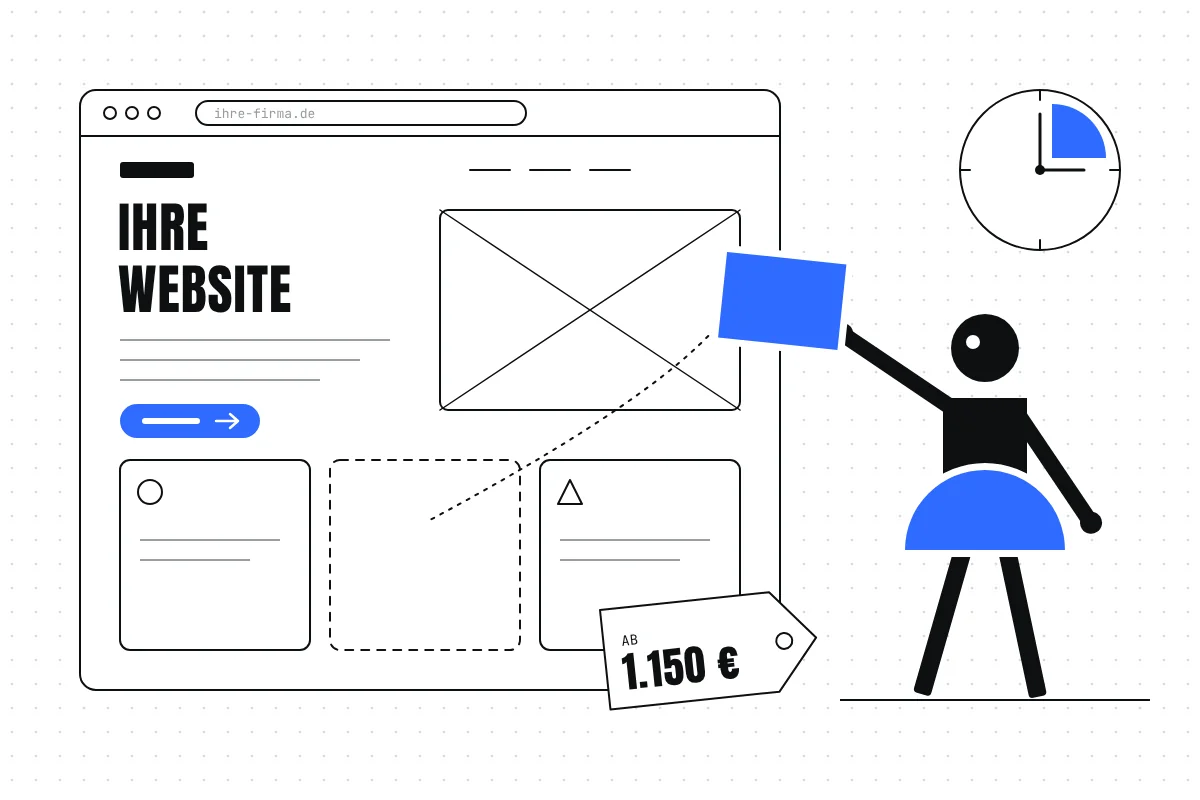
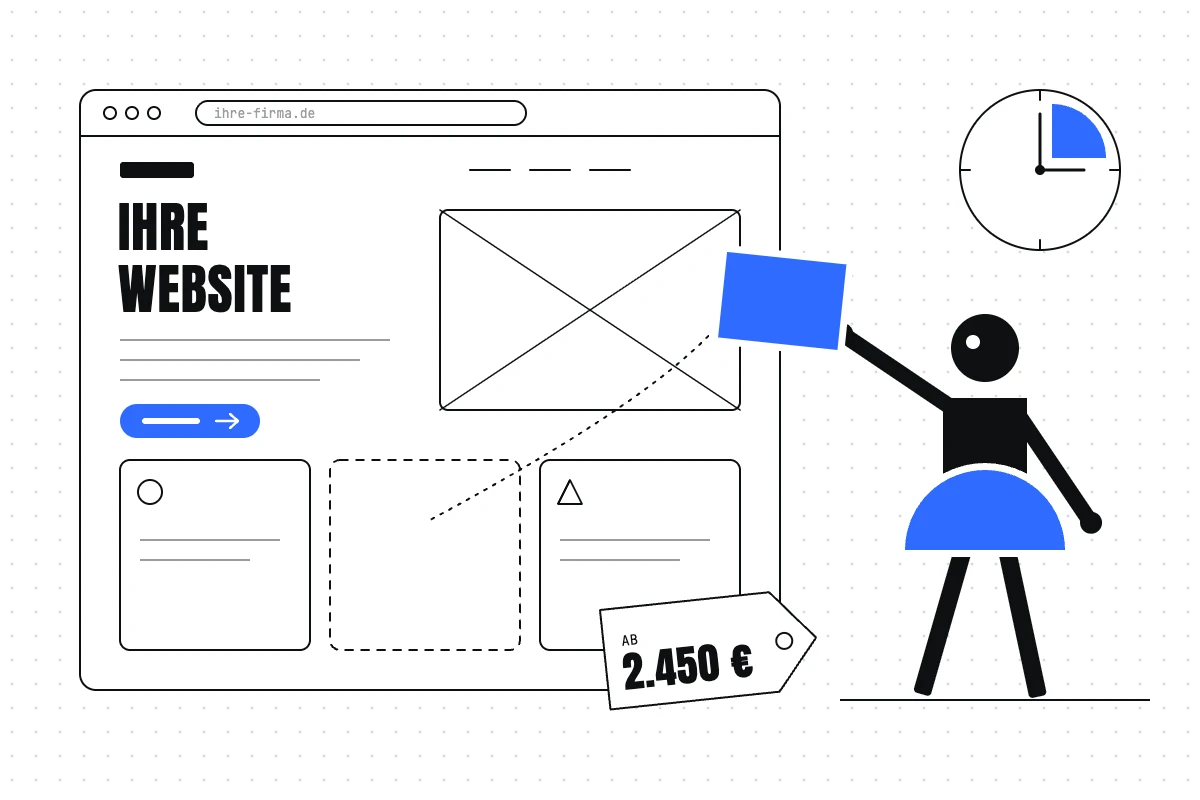
Titelbild Blog Website-Kosten: Preisschild „ab 2.450 €“ statt 1.150 €, Alternativtext angepasst

Changed region(s): [[0.5242, 0.7812, 0.6475, 0.875], [0.0925, 0.3438, 0.2158, 0.375], [0.0925, 0.25, 0.1542, 0.3125]]

diff --git a/werkzeuge/blog/was-kostet-eine-website-inhalt.html b/werkzeuge/blog/was-kostet-eine-website-inhalt.html
@@ -4,7 +4,7 @@
     <h1>Was kostet eine Website – und wie lange dauert sie?</h1>
     <p class="artikel-lead">Einmalige Preise, laufende Kosten und ein realistischer Zeitplan: mit Zahlen aus meiner Preisliste, Beispielrechnungen und Erfahrungen aus Projekten mit kleinen und mittleren Unternehmen.</p>
     <p class="artikel-meta"><span>Von <a href="../../profil/">Anna Härtelt</a></span><span>Veröffentlicht <time datetime="2026-10-13">13. Oktober 2026</time></span><span>Lesezeit LESEZEIT Minuten</span><span>Preise: Stand Oktober 2026</span></p>
-    <img class="artikel-bild" src="../../bilder/blog-geld-und-zeit.webp" alt="Eine Website als Wireframe, davor eine Figur aus Bauhaus-Grundformen, die ein blaues Modul einsetzt; daneben eine Uhr und ein Preisschild „ab 1.150 €“." width="1200" height="800">
+    <img class="artikel-bild" src="../../bilder/blog-geld-und-zeit.webp" alt="Eine Website als Wireframe, davor eine Figur aus Bauhaus-Grundformen, die ein blaues Modul einsetzt; daneben eine Uhr und ein Preisschild „ab 2.450 €“." width="1200" height="800">
 
     <div class="artikel-text">
 

diff --git a/website/blog/was-kostet-eine-website/index.html b/website/blog/was-kostet-eine-website/index.html
@@ -288,7 +288,7 @@
     <h1>Was kostet eine Website – und wie lange dauert sie?</h1>
     <p class="artikel-lead">Einmalige Preise, laufende Kosten und ein realistischer Zeitplan: mit Zahlen aus meiner Preisliste, Beispielrechnungen und Erfahrungen aus Projekten mit kleinen und mittleren Unternehmen.</p>
     <p class="artikel-meta"><span>Von <a href="../../profil/">Anna Härtelt</a></span><span>Veröffentlicht <time datetime="2026-10-13">13. Oktober 2026</time></span><span>Lesezeit 17 Minuten</span><span>Preise: Stand Oktober 2026</span></p>
-    <img class="artikel-bild" src="../../bilder/blog-geld-und-zeit.webp" alt="Eine Website als Wireframe, davor eine Figur aus Bauhaus-Grundformen, die ein blaues Modul einsetzt; daneben eine Uhr und ein Preisschild „ab 1.150 €“." width="1200" height="800">
+    <img class="artikel-bild" src="../../bilder/blog-geld-und-zeit.webp" alt="Eine Website als Wireframe, davor eine Figur aus Bauhaus-Grundformen, die ein blaues Modul einsetzt; daneben eine Uhr und ein Preisschild „ab 2.450 €“." width="1200" height="800">
 
     <div class="artikel-text">
 

diff --git a/werkzeuge/grafiken/blog/geld-und-zeit-titel.py b/werkzeuge/grafiken/blog/geld-und-zeit-titel.py
@@ -55,7 +55,7 @@ s.append(f'<g transform="translate(1040 170)"><circle r="80" fill="{WS}" stroke=
          f'<line x1="0" y1="0" x2="0" y2="-56" stroke-width="3"/><line x1="0" y1="0" x2="44" y2="0" stroke-width="3"/></g><circle r="5" fill="{SCH}"/></g>')
 s.append(f'<g transform="translate(600 610) rotate(-6)"><path d="M0 0 H170 L212 50 L170 100 H0 Z" fill="{WS}" stroke="{SCH}" stroke-width="2" stroke-linejoin="round"/>'
          f'<circle cx="180" cy="50" r="8" fill="none" stroke="{SCH}" stroke-width="2"/><text x="18" y="38" font-family="JetBrains Mono, monospace" font-size="14" fill="{SCH}">AB</text>'
-         f'<text x="16" y="82" font-family="Anton, Impact, sans-serif" font-size="42" fill="{SCH}" letter-spacing="1">1.150 €</text></g>')
+         f'<text x="16" y="82" font-family="Anton, Impact, sans-serif" font-size="42" fill="{SCH}" letter-spacing="1">2.450 €</text></g>')
 # Boden und Figur, die das blaue Modul in die gestrichelte Lücke setzt
 s.append(f'<line x1="840" y1="700" x2="1150" y2="700" stroke="{SCH}" stroke-width="2"/>')
 fx, fy, k = 985, 700, 1.0
